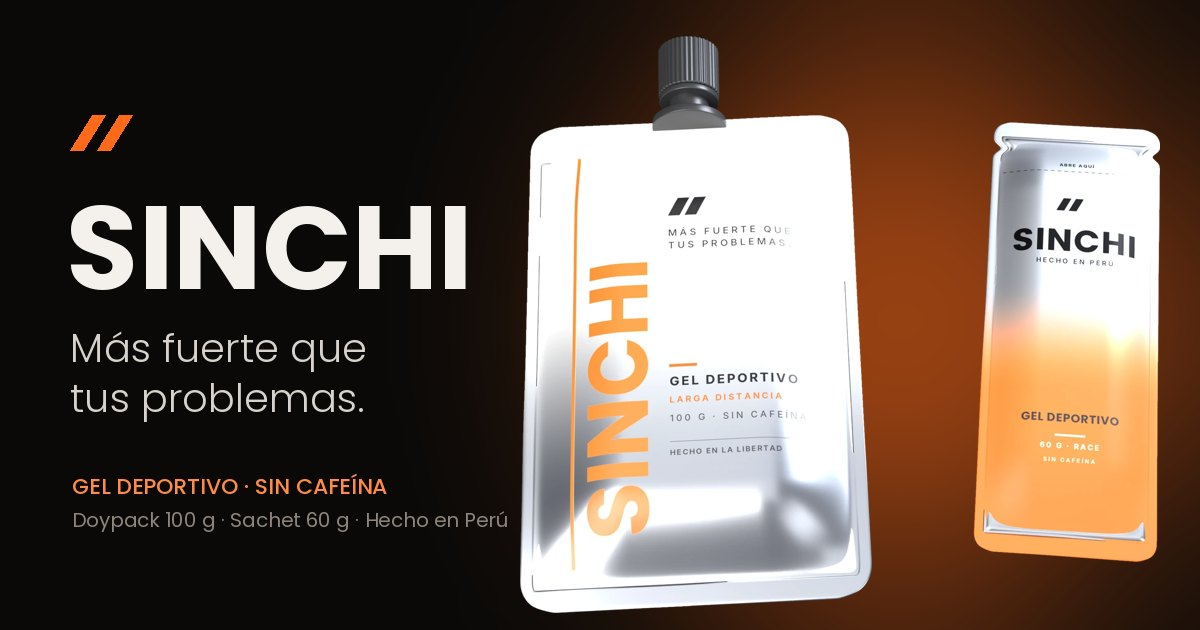
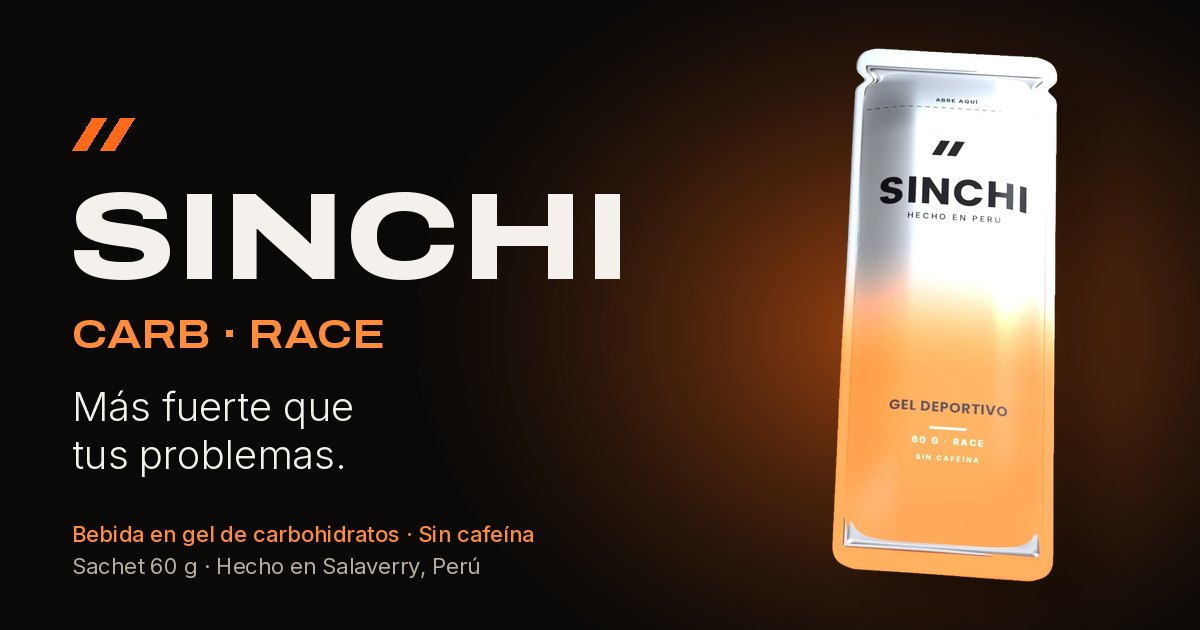
Lanzamiento solo con RACE 60 g; ULTRA como sorpresa con 'Avísame'; nueva portada e imagen para compartir
Claude-Session: https://claude.ai/code/session_016W1ixGYnw2FrW8Et2c2FKq

diff --git a/index.html b/index.html
@@ -5,7 +5,7 @@
 
 <meta name="viewport" content="width=device-width, initial-scale=1">
 <title>SINCHI CARB · Bebida en gel de carbohidratos hecha en Perú</title>
-<meta name="description" content="SINCHI CARB: bebida en gel de carbohidratos para deportistas, hecha en Salaverry, La Libertad. Sin cafeína. RACE 60 g y ULTRA 100 g. Más fuerte que tus problemas.">
+<meta name="description" content="SINCHI CARB: bebida en gel de carbohidratos para deportistas, hecha en Salaverry, La Libertad. Sin cafeína. SINCHI CARB RACE, sachet de 60 g. Más fuerte que tus problemas.">
 <link rel="icon" href="assets/favicon.png">
 <link rel="manifest" href="/manifest.webmanifest">
 <meta name="theme-color" content="#0A0908">
@@ -22,18 +22,18 @@
 <meta property="og:locale" content="es_PE">
 <meta property="og:url" content="https://sinchienergy.com/">
 <meta property="og:title" content="SINCHI CARB · Bebida en gel de carbohidratos hecha en Perú">
-<meta property="og:description" content="Bebida en gel de carbohidratos, sin cafeína, para correr, pedalear y entrenar. RACE 60 g y ULTRA 100 g. Separa el tuyo.">
-<meta property="og:image" content="https://sinchienergy.com/assets/og.jpg">
+<meta property="og:description" content="Bebida en gel de carbohidratos, sin cafeína, para correr, pedalear y entrenar. RACE, sachet de 60 g. Separa el tuyo.">
+<meta property="og:image" content="https://sinchienergy.com/assets/og.jpg?v=2">
 <meta property="og:image:width" content="1200">
 <meta property="og:image:height" content="630">
-<meta property="og:image:alt" content="Envases SINCHI: doypack de 100 g y sachet de 60 g">
+<meta property="og:image:alt" content="SINCHI CARB RACE, sachet de 60 g">
 <meta name="twitter:card" content="summary_large_image">
 <meta name="twitter:title" content="SINCHI CARB · Bebida en gel de carbohidratos hecha en Perú">
-<meta name="twitter:description" content="Bebida en gel de carbohidratos, sin cafeína. RACE 60 g y ULTRA 100 g. Separa el tuyo.">
-<meta name="twitter:image" content="https://sinchienergy.com/assets/og.jpg">
+<meta name="twitter:description" content="Bebida en gel de carbohidratos, sin cafeína. RACE, sachet de 60 g. Separa el tuyo.">
+<meta name="twitter:image" content="https://sinchienergy.com/assets/og.jpg?v=2">
 <script type="application/ld+json">{"@context":"https://schema.org","@type":"Organization","name":"SINCHI CARB","alternateName":"SINCHI","url":"https://sinchienergy.com/","logo":"https://sinchienergy.com/icons/icon-512.png","slogan":"Más fuerte que tus problemas.","sameAs":["https://www.instagram.com/sinchienergy/","https://www.tiktok.com/@sinchienergy"]}</script>
-<link rel="preload" as="image" href="assets/hero_std.webp?v=6" imagesrcset="assets/hero_640.webp?v=1 640w, assets/hero_960.webp?v=1 960w, assets/hero_std.webp?v=6 1240w" imagesizes="(max-width:900px) 92vw, 620px" fetchpriority="high">
-<link rel="stylesheet" href="styles.css?v=18">
+<link rel="preload" as="image" href="assets/hero_race.webp?v=2" imagesrcset="assets/hero_race_600.webp?v=2 290w, assets/hero_race.webp?v=2 463w" imagesizes="(max-width:900px) 46vw, 300px" fetchpriority="high">
+<link rel="stylesheet" href="styles.css?v=20">
 <!-- Google Analytics -->
 <script>addEventListener('load',function(){setTimeout(function(){var s=document.createElement('script');s.async=true;s.src='https://www.googletagmanager.com/gtag/js?id=G-M9N4279ZE2';document.head.appendChild(s);},1500);});</script>
 <script>window.dataLayer=window.dataLayer||[];function gtag(){dataLayer.push(arguments);}gtag('js',new Date());gtag('config','G-M9N4279ZE2',{allow_google_signals:false,allow_ad_personalization_signals:false});</script>
@@ -61,18 +61,18 @@
     <p class="eyebrow"><span class="line"></span>SINCHI CARB · HECHO EN PERÚ</p>
     <h1>SINCHI</h1>
     <p class="slogan">Más fuerte que<br>tus problemas.</p>
-    <p class="lead">Bebida en gel de carbohidratos para correr, pedalear y entrenar. Sin cafeína. Dos formatos, un solo estándar: el tuyo.</p>
+    <p class="lead">Bebida en gel de carbohidratos para correr, pedalear y entrenar. Sin cafeína. Un sachet de 60 g que se abre con una mano, hecho para el día de tu carrera.</p>
     <div class="ctas">
       <a href="#separar" class="btn btn-light">Separar el mío</a>
       <button type="button" class="btn btn-ghost install-btn" id="installBtn2">Descargar app</button>
     </div>
     <a class="origen-pill is-wait" id="origenPill" href="/cuenta.html?modo=registro"><i class="dot" aria-hidden="true"></i><span>Quedan <b id="origenN">100</b> de 100 dorsales Origen</span><em>Crear mi cuenta</em></a>
-    <div class="specs"><span><b>60 g</b>Race</span><span><b>100 g</b>Ultra</span><span><b>0 mg</b>Cafeína</span><span><b>PE</b>La Libertad</span></div>
+    <div class="specs"><span><b>60 g</b>Race</span><span><b>1</b>Mano para abrir</span><span><b>0 mg</b>Cafeína</span><span><b>PE</b>La Libertad</span></div>
   </div>
   <div class="hero-visual hero-in hero-in2">
     <div class="glow"></div>
     <div class="tilt" id="tilt">
-      <div class="stage"><div class="pedestal"></div><div class="duo"><img class="floaty heroimg" src="assets/hero_std.webp?v=6" srcset="assets/hero_640.webp?v=1 640w, assets/hero_960.webp?v=1 960w, assets/hero_std.webp?v=6 1240w" sizes="(max-width:900px) 92vw, 620px" width="1240" height="1118" fetchpriority="high" decoding="async" alt="SINCHI doypack 100 g y sachet 60 g"></div></div>
+      <div class="stage"><div class="pedestal"></div><div class="duo"><img class="floaty heroimg heroimg-race" src="assets/hero_race.webp?v=2" srcset="assets/hero_race_600.webp?v=2 290w, assets/hero_race.webp?v=2 463w" sizes="(max-width:900px) 46vw, 300px" width="463" height="958" fetchpriority="high" decoding="async" alt="SINCHI CARB RACE, sachet de 60 g"></div></div>
     </div>
   </div>
 </section>
@@ -96,20 +96,24 @@
   <div class="section-head reveal">
     <div>
       <p class="kicker">01 · FORMATOS</p>
-      <h2>Entrena largo.<br>Compite ligero.</h2>
+      <h2>Hecho para<br>el día D.</h2>
     </div>
-    <p class="muted">Cada formato está pensado para un momento distinto de tu entrenamiento.</p>
+    <p class="muted">Empezamos con un solo formato, pensado para tu carrera. Lo que viene después, lo sabrás primero aquí.</p>
   </div>
   <div class="formats reveal">
-    <article class="fmtcard"><img src="assets/f100.webp?v=6" width="320" height="524" loading="lazy" decoding="async" alt="SINCHI CARB ULTRA, doypack de 100 g">
-      <div class="fhead"><span class="kicker">ULTRA · LARGA DISTANCIA</span><span class="big">100 g</span></div>
-      <h3>Doypack con tapa</h3>
-      <p class="muted">Blanco con degradado plateado y boquilla recerrable. Tómalo por partes en fondos, trail y ciclismo.</p>
-    </article>
-    <article class="fmtcard"><img src="assets/f60.webp?v=6" width="220" height="519" loading="lazy" decoding="async" alt="SINCHI CARB RACE, sachet de 60 g">
+    <article class="fmtcard hero-fmt"><img src="assets/f60.webp?v=6" width="220" height="519" loading="lazy" decoding="async" alt="SINCHI CARB RACE, sachet de 60 g">
       <div class="fhead"><span class="kicker">RACE · DÍA DE CARRERA</span><span class="big">60 g</span></div>
       <h3>Sachet abre fácil</h3>
-      <p class="muted">Plateado a naranja eléctrico, delgado y ligero. Se abre con una mano por la muesca superior.</p>
+      <p class="muted">Plateado a naranja eléctrico, delgado y ligero. Cabe en el bolsillo del short o del cinturón y se abre con una mano por la muesca superior.</p>
+      <a class="btn btn-light fmt-cta" href="#separar">Separar el mío</a>
+    </article>
+    <article class="fmtcard teaser" aria-label="Próximo lanzamiento: ULTRA">
+      <img src="assets/f100.webp?v=6" width="320" height="524" loading="lazy" decoding="async" alt="">
+      <div class="fhead"><span class="kicker">PRÓXIMAMENTE</span><span class="big">ULTRA</span></div>
+      <h3>Algo más grande viene en camino.</h3>
+      <p class="muted">Para tus fondos, trail y salidas largas. Déjanos tu correo y sé el primero en saberlo.</p>
+      <form class="teaser-form" id="ultraForm" novalidate><input type="email" id="ultraMail" placeholder="tucorreo@gmail.com" autocomplete="email" aria-label="Tu correo"><button type="submit" class="btn btn-light">Avísame</button></form>
+      <p class="teaser-msg" id="ultraMsg" role="status"></p>
     </article>
   </div>
 </section>
@@ -155,13 +159,13 @@
       <p class="muted">Sin pago por ahora. Te escribimos cuando SINCHI esté disponible y pagas con Yape o Plin al confirmar tu pedido.</p>
     </div>
     <div class="sep-side">
-      <ul class="sep-points"><li><b>60 g</b> Race</li><li><b>100 g</b> Ultra</li><li><b>S/ 0</b> hoy</li></ul>
+      <ul class="sep-points"><li><b>60 g</b> Race</li><li><b>0 mg</b> Cafeína</li><li><b>S/ 0</b> hoy</li></ul>
       <button type="button" class="btn btn-light" id="sepOpen">Separar ahora</button>
     </div>
   </div>
   <div class="buy reveal">
     <ol class="buy-steps">
-      <li><span class="bs-n">1</span><div><b>Separa</b><p class="muted">Elige RACE o ULTRA y deja tus datos. No pagas nada hoy.</p></div></li>
+      <li><span class="bs-n">1</span><div><b>Separa</b><p class="muted">Elige cuántos RACE quieres y deja tus datos. No pagas nada hoy.</p></div></li>
       <li><span class="bs-n">2</span><div><b>Te confirmamos</b><p class="muted">Cuando esté disponible te escribimos por WhatsApp con el total y la entrega.</p></div></li>
       <li><span class="bs-n">3</span><div><b>Pagas y recibes</b><p class="muted">Yapea o plinea y envíanos la captura. Coordinamos la entrega en Trujillo y Salaverry.</p></div></li>
     </ol>
@@ -218,7 +222,7 @@
     </div>
     <div class="hist-body reveal">
       <p class="hist-lead">SINCHI nació en Salaverry, frente al mar, con una idea terca: que el gel que llevas en el bolsillo también podía hacerse aquí, pensado para quienes entrenan en el Perú.</p>
-      <p>Entrenar en el norte es salir de madrugada, con viento de mar y arena en las zapatillas. Es ese kilómetro en el que todo pesa y la cabeza te pide parar. Para ese kilómetro hicimos SINCHI CARB: una bebida en gel de carbohidratos hecha en La Libertad, sin cafeína, en dos formatos para dos momentos distintos de tu entrenamiento.</p>
+      <p>Entrenar en el norte es salir de madrugada, con viento de mar y arena en las zapatillas. Es ese kilómetro en el que todo pesa y la cabeza te pide parar. Para ese kilómetro hicimos SINCHI CARB: una bebida en gel de carbohidratos hecha en La Libertad, sin cafeína, en un sachet pensado para el día de tu carrera.</p>
       <p>No queremos ser un gel más. Queremos ser el que te acompaña cuando nadie te ve entrenar, el que te recuerda por qué empezaste. Por eso nuestro nombre significa <em>fuerte</em> en quechua, y por eso nuestra frase no es un eslogan: es una promesa.</p>
       <p class="hist-promise">Más fuerte que tus problemas.</p>
     </div>
@@ -229,7 +233,7 @@
     <div class="dif reveal">
       <article><h4>Sin cafeína</h4><p>Carbohidratos sin estimulantes. Úsalo en un entrenamiento de noche, si eres sensible a la cafeína o si ya tomaste café antes de salir.</p></article>
       <article><h4>Hecho aquí</h4><p>Lo hacemos en La Libertad, Perú, para el clima, las rutas y las carreras que tú corres. No es una marca de afuera adaptada: nació aquí.</p></article>
-      <article><h4>Dos formatos, dos momentos</h4><p>Doypack de 100 g con tapa para las salidas largas. Sachet de 60 g que se abre con una mano para el día de competencia.</p></article>
+      <article><h4>Hecho para el día D</h4><p>Un sachet de 60 g, delgado y ligero, que se abre con una mano mientras corres o pedaleas.</p></article>
       <article><h4>Un club, no solo un gel</h4><p>Con tu cuenta tienes tu dorsal del Club SINCHI, tus separaciones y las novedades de carreras y eventos en Trujillo.</p></article>
     </div>
   </div>
@@ -287,7 +291,7 @@
     <div class="faq-list reveal">
       <details><summary>¿Qué es SINCHI CARB?</summary><p>Una bebida en gel de carbohidratos para deportistas, hecha en Salaverry, La Libertad, con algarrobina y pulpa de maracuyá. Está pensado para correr, pedalear y entrenar, y no tiene cafeína.</p></details>
       <details><summary>¿Tiene cafeína?</summary><p>No. SINCHI CARB son carbohidratos sin estimulantes, así que puedes usarlo en entrenamientos de noche o si eres sensible a la cafeína.</p></details>
-      <details><summary>¿Qué diferencia hay entre RACE y ULTRA?</summary><p>ULTRA es el doypack de 100 g: tiene tapa recerrable y se toma por partes en salidas largas, trail y ciclismo. RACE es el sachet de 60 g: es delgado y se abre con una mano por la muesca superior, ideal para el día de competencia.</p></details>
+      <details><summary>¿Habrá otros formatos?</summary><p>Sí. Estamos preparando <b>ULTRA</b>, un formato más grande para fondos, trail y salidas largas. Déjanos tu correo en la sección Formatos y te avisamos antes que a nadie.</p></details>
       <details><summary>¿Cuándo sale y dónde lo compro?</summary><p>El lanzamiento será en Trujillo. Separa el tuyo o únete a la lista de acceso anticipado y te avisamos antes que a nadie.</p></details>
       <details><summary>¿Tengo que pagar para separar?</summary><p>No. Separar no cuesta nada hoy. Te escribimos cuando SINCHI esté disponible para coordinar tu pedido.</p></details>
       <details><summary>¿Cómo pago?</summary><p>Cuando confirmemos tu pedido por WhatsApp, pagas con <b>Yape al 970 567 719</b> o <b>Plin al 960 259 648</b> y nos envías la captura del pago. Nunca te pediremos pagar a otro número ni tus claves.</p></details>
@@ -341,7 +345,7 @@
 
 <a class="wa-float" href="https://wa.me/51970567719?text=Hola%20SINCHI%2C%20quiero%20saber%20m%C3%A1s%20sobre%20el%20gel." target="_blank" rel="noopener" aria-label="Escríbenos por WhatsApp"><svg viewBox="0 0 24 24" width="24" height="24" aria-hidden="true"><path fill="currentColor" d="M12.04 2C6.58 2 2.13 6.45 2.13 11.91c0 1.75.46 3.45 1.32 4.95L2.05 22l5.25-1.38a9.9 9.9 0 0 0 4.74 1.21h.01c5.46 0 9.91-4.45 9.91-9.91A9.85 9.85 0 0 0 12.04 2zm0 18.15h-.01a8.23 8.23 0 0 1-4.19-1.15l-.3-.18-3.12.82.83-3.04-.2-.31a8.2 8.2 0 0 1-1.26-4.38c0-4.54 3.7-8.24 8.25-8.24 2.2 0 4.27.86 5.83 2.42a8.18 8.18 0 0 1 2.41 5.83c0 4.55-3.7 8.25-8.24 8.25zm4.52-6.16c-.25-.12-1.47-.72-1.69-.81-.23-.08-.39-.12-.56.13-.16.25-.64.81-.79.97-.14.17-.29.19-.54.06-.25-.12-1.05-.39-1.99-1.23-.74-.66-1.23-1.47-1.38-1.72-.14-.25-.02-.38.11-.51.11-.11.25-.29.37-.43.13-.15.17-.25.25-.42.08-.16.04-.31-.02-.43-.06-.13-.56-1.34-.76-1.84-.2-.48-.41-.42-.56-.43h-.48c-.17 0-.43.06-.66.31-.22.25-.86.85-.86 2.07 0 1.22.89 2.4 1.01 2.56.12.17 1.75 2.67 4.23 3.74.59.26 1.05.41 1.41.52.59.19 1.13.16 1.56.1.48-.07 1.47-.6 1.67-1.18.21-.58.21-1.07.14-1.18-.06-.1-.22-.16-.47-.28z"/></svg><span>Escríbenos</span></a>
 
-<script src="main.js?v=16"></script>
+<script src="main.js?v=17"></script>
 <script>
 (function(){const n=document.getElementById('navwrap');const f=()=>n.classList.toggle('scrolled',scrollY>40);addEventListener('scroll',f,{passive:true});f();})();
 </script>

diff --git a/main.js b/main.js
@@ -63,7 +63,7 @@ const sel = document.getElementById('prodSel');
     const j = await fetch(API + '/productos').then((r) => r.json());
     // Si en el admin el formato se escribe como "Sachet 60 g · Maracuyá", se agrupa por formato y se elige el sabor
     const grupos = {};
-    j.productos.forEach((p) => {
+    j.productos.filter((p) => !/ULTRA/i.test(p.nombre || '')).forEach((p) => {
       const [f0, sabor] = String(p.formato).split(' · ');
       // "SINCHI CARB RACE" -> "RACE · Sachet 60 g"
       const linea = String(p.nombre || '').replace(/^SINCHI(\s+CARB)?\s*/i, '').trim();
@@ -188,3 +188,16 @@ document.querySelectorAll('.paytile').forEach((b) => b.addEventListener('click',
   if (window.gtag) gtag('event', 'copiar_numero_pago', { metodo: b.querySelector('b').textContent });
   setTimeout(() => { b.classList.remove('ok'); act.textContent = 'Copiar'; }, 1800);
 }));
+
+// ULTRA: avísame (misma lista de acceso anticipado)
+const uf = document.getElementById('ultraForm');
+if (uf) uf.addEventListener('submit', async (e) => {
+  e.preventDefault();
+  const v = document.getElementById('ultraMail').value.trim(), msg = document.getElementById('ultraMsg');
+  if (!/^[^@\s]+@[^@\s]+\.[^@\s]+$/.test(v)) { msg.textContent = 'Escribe un correo válido.'; return; }
+  try {
+    await post('/suscribir', { email: v, web: '' });
+    uf.hidden = true; msg.textContent = 'Listo. Serás de los primeros en conocer ULTRA.';
+    if (window.gtag) gtag('event', 'avisame_ultra');
+  } catch (x) { msg.textContent = x.message; }
+});

diff --git a/styles.css b/styles.css
@@ -153,3 +153,17 @@ body.lock .wa-float{display:none}
 .foot .foot-pay{display:flex;flex-direction:column;align-items:flex-start;gap:10px;margin-top:6px}
 .foot .fp-logos{display:flex;gap:10px}
 [hidden]{display:none!important}
+/* v21: lanzamiento solo RACE + ULTRA sorpresa */
+.heroimg-race{width:auto !important;max-width:none !important;height:min(66vh,580px);margin:0 auto;display:block}
+@media (max-width:900px){.heroimg-race{height:min(56vh,440px)}}
+.fmtcard img{grid-row:1 / span 6 !important}
+.fmt-cta{justify-self:start;margin-top:8px}
+.fmtcard.teaser{background:radial-gradient(120% 90% at 20% 50%,rgba(255,106,26,.10),transparent 60%),#0B0907 !important;border-style:dashed !important;border-color:#3a2a1c !important}
+.fmtcard.teaser img{filter:brightness(0) drop-shadow(0 0 1px rgba(255,160,90,.95)) drop-shadow(0 0 26px rgba(255,106,26,.35)) !important}
+.fmtcard.teaser .big{background:linear-gradient(90deg,#FFB27A,#FF6A1A);-webkit-background-clip:text;background-clip:text;color:transparent;letter-spacing:.02em}
+.fmtcard.teaser .kicker{color:#FF6A1A}
+.teaser-form{display:flex;gap:8px;margin-top:6px;flex-wrap:wrap}
+.teaser-form input{flex:1 1 180px;min-width:0;font:inherit;font-size:14px;color:#F4F1EC;background:#14110F;border:1px solid #3a322b;border-radius:999px;padding:12px 16px}
+.teaser-form input:focus{outline:2px solid #FF6A1A;outline-offset:1px;border-color:transparent}
+.teaser-form .btn{padding:12px 20px}
+.teaser-msg{margin:4px 0 0;font-size:13px;color:#b7aea4;min-height:18px}

diff --git a/sw.js b/sw.js
@@ -1,5 +1,5 @@
-const CACHE = 'sinchi-v21';
-const CORE = ['/', '/index.html', '/styles.css?v=18', '/main.js?v=16', '/cuenta.html', '/assets/hero_std.webp?v=6', '/fonts/archivo.woff2?v=1', '/fonts/inter.woff2?v=1', '/assets/f100.webp?v=6', '/assets/f60.webp?v=6', '/assets/favicon.png', '/icons/icon-192.png'];
+const CACHE = 'sinchi-v22';
+const CORE = ['/', '/index.html', '/styles.css?v=20', '/main.js?v=17', '/cuenta.html', '/assets/hero_race.webp?v=2', '/fonts/archivo.woff2?v=1', '/fonts/inter.woff2?v=1', '/assets/f100.webp?v=6', '/assets/f60.webp?v=6', '/assets/favicon.png', '/icons/icon-192.png'];
 self.addEventListener('install', e => { e.waitUntil(caches.open(CACHE).then(c => c.addAll(CORE)).then(() => self.skipWaiting())); });
 self.addEventListener('activate', e => { e.waitUntil(caches.keys().then(ks => Promise.all(ks.filter(k => k !== CACHE).map(k => caches.delete(k)))).then(() => self.clients.claim())); });
 self.addEventListener('fetch', e => {

diff --git a/reclamaciones.html b/reclamaciones.html
@@ -87,7 +87,7 @@ input:focus,select:focus,textarea:focus{outline:2px solid #FF6A1A;outline-offset
 
 <h2>2. Producto o servicio</h2>
 <div class="opts" role="radiogroup" aria-label="Tipo de bien">
-  <label class="opt"><input type="radio" name="bien" value="Producto" checked><span><strong>Producto</strong><small>Un SINCHI CARB RACE, ULTRA o pack que compraste o separaste.</small></span></label>
+  <label class="opt"><input type="radio" name="bien" value="Producto" checked><span><strong>Producto</strong><small>Un SINCHI CARB RACE o pack que compraste o separaste.</small></span></label>
   <label class="opt"><input type="radio" name="bien" value="Servicio"><span><strong>Servicio</strong><small>Atención, entrega, la web o tu cuenta Mi SINCHI.</small></span></label>
 </div>
 <div class="grid" style="margin-top:14px">

diff --git a/cuenta.html b/cuenta.html
@@ -456,7 +456,7 @@ body.is-mi .shell{overflow-x:clip}
       <h1>Únete al<br><span class="grad">equipo.</span></h1>
       <p class="lead">Crea tu cuenta para separar tu SINCHI CARB, seguir tus pedidos y contarle al mundo cómo te fue en tu carrera.</p>
     </div>
-    <div class="visual"><img src="/assets/hero_std.webp?v=6" alt="Envases SINCHI: doypack de 100 g y sachet de 60 g"></div>
+    <div class="visual"><img src="/assets/hero_race.webp?v=2" alt="SINCHI CARB RACE, sachet de 60 g"></div>
     <div class="perks">
       <div><b>Acceso anticipado</b><span>Entérate primero del lanzamiento.</span></div>
       <div><b>Tus pedidos</b><span>Todo en un solo lugar.</span></div>
